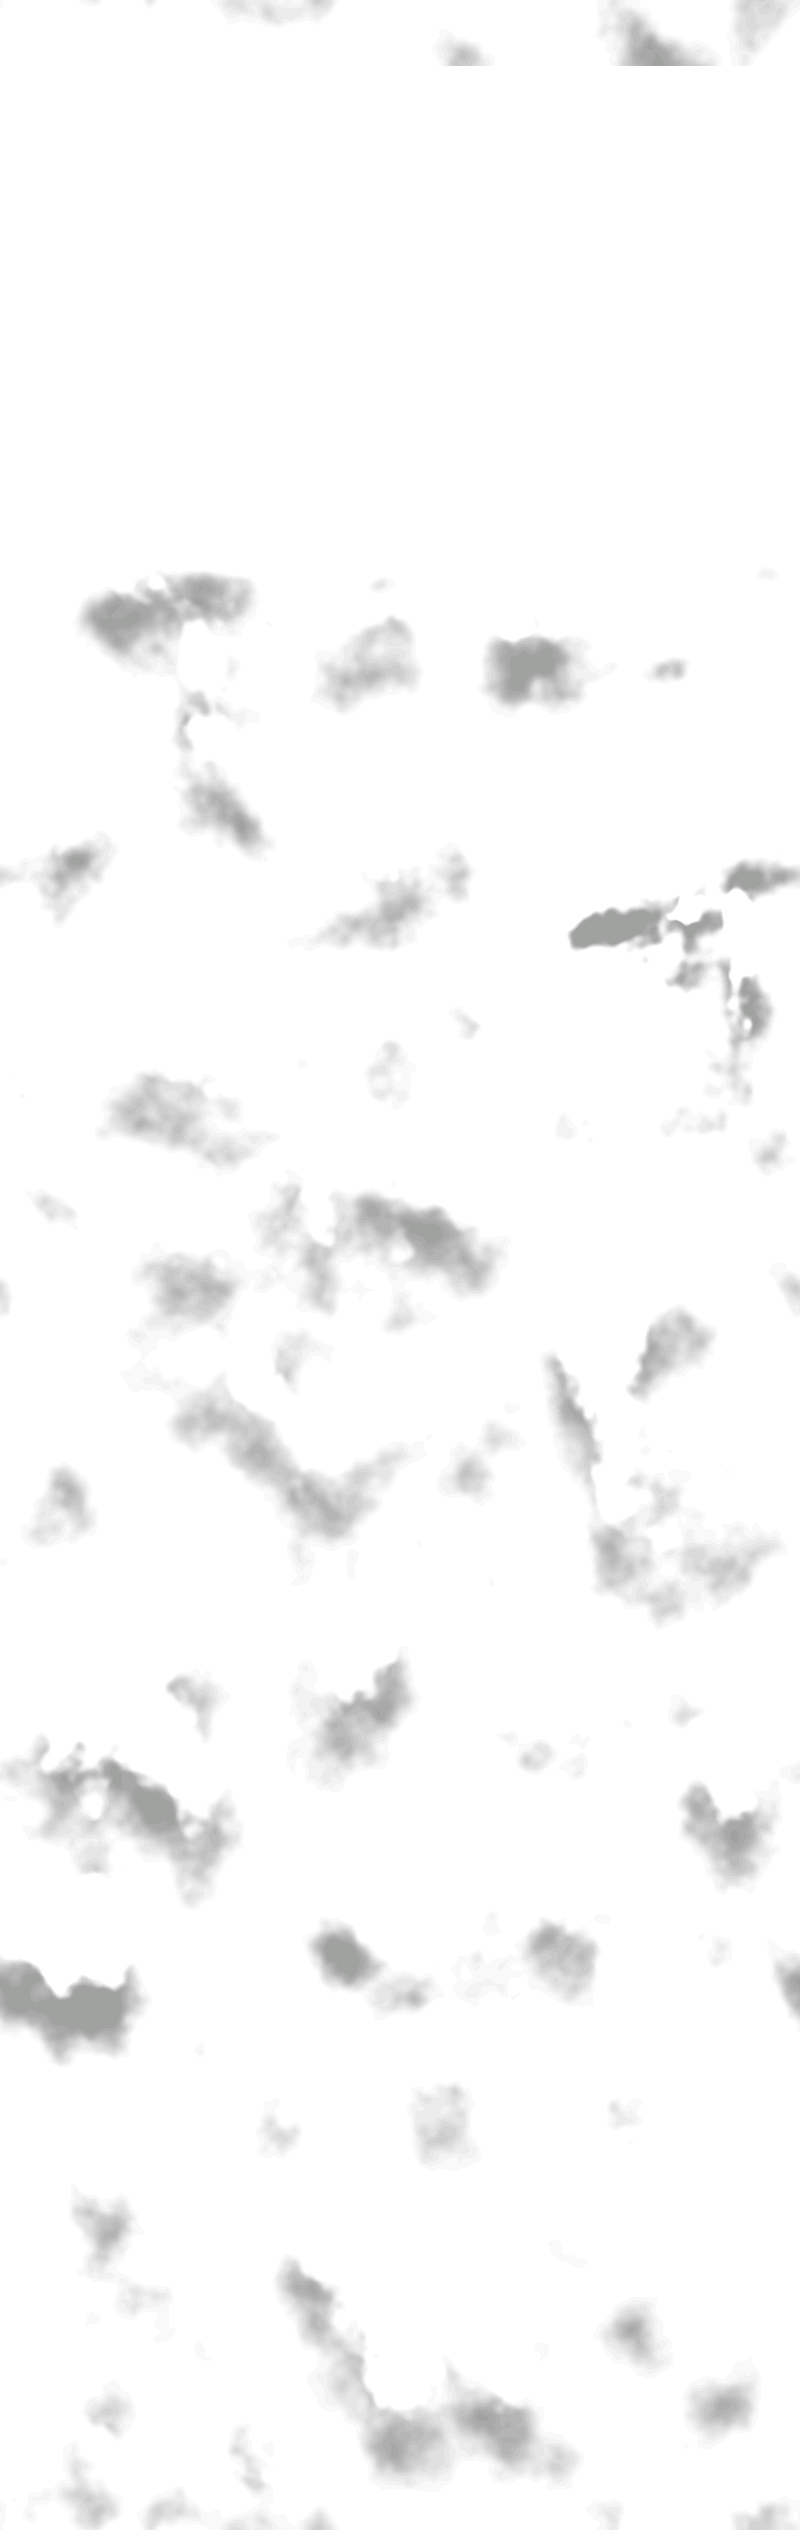
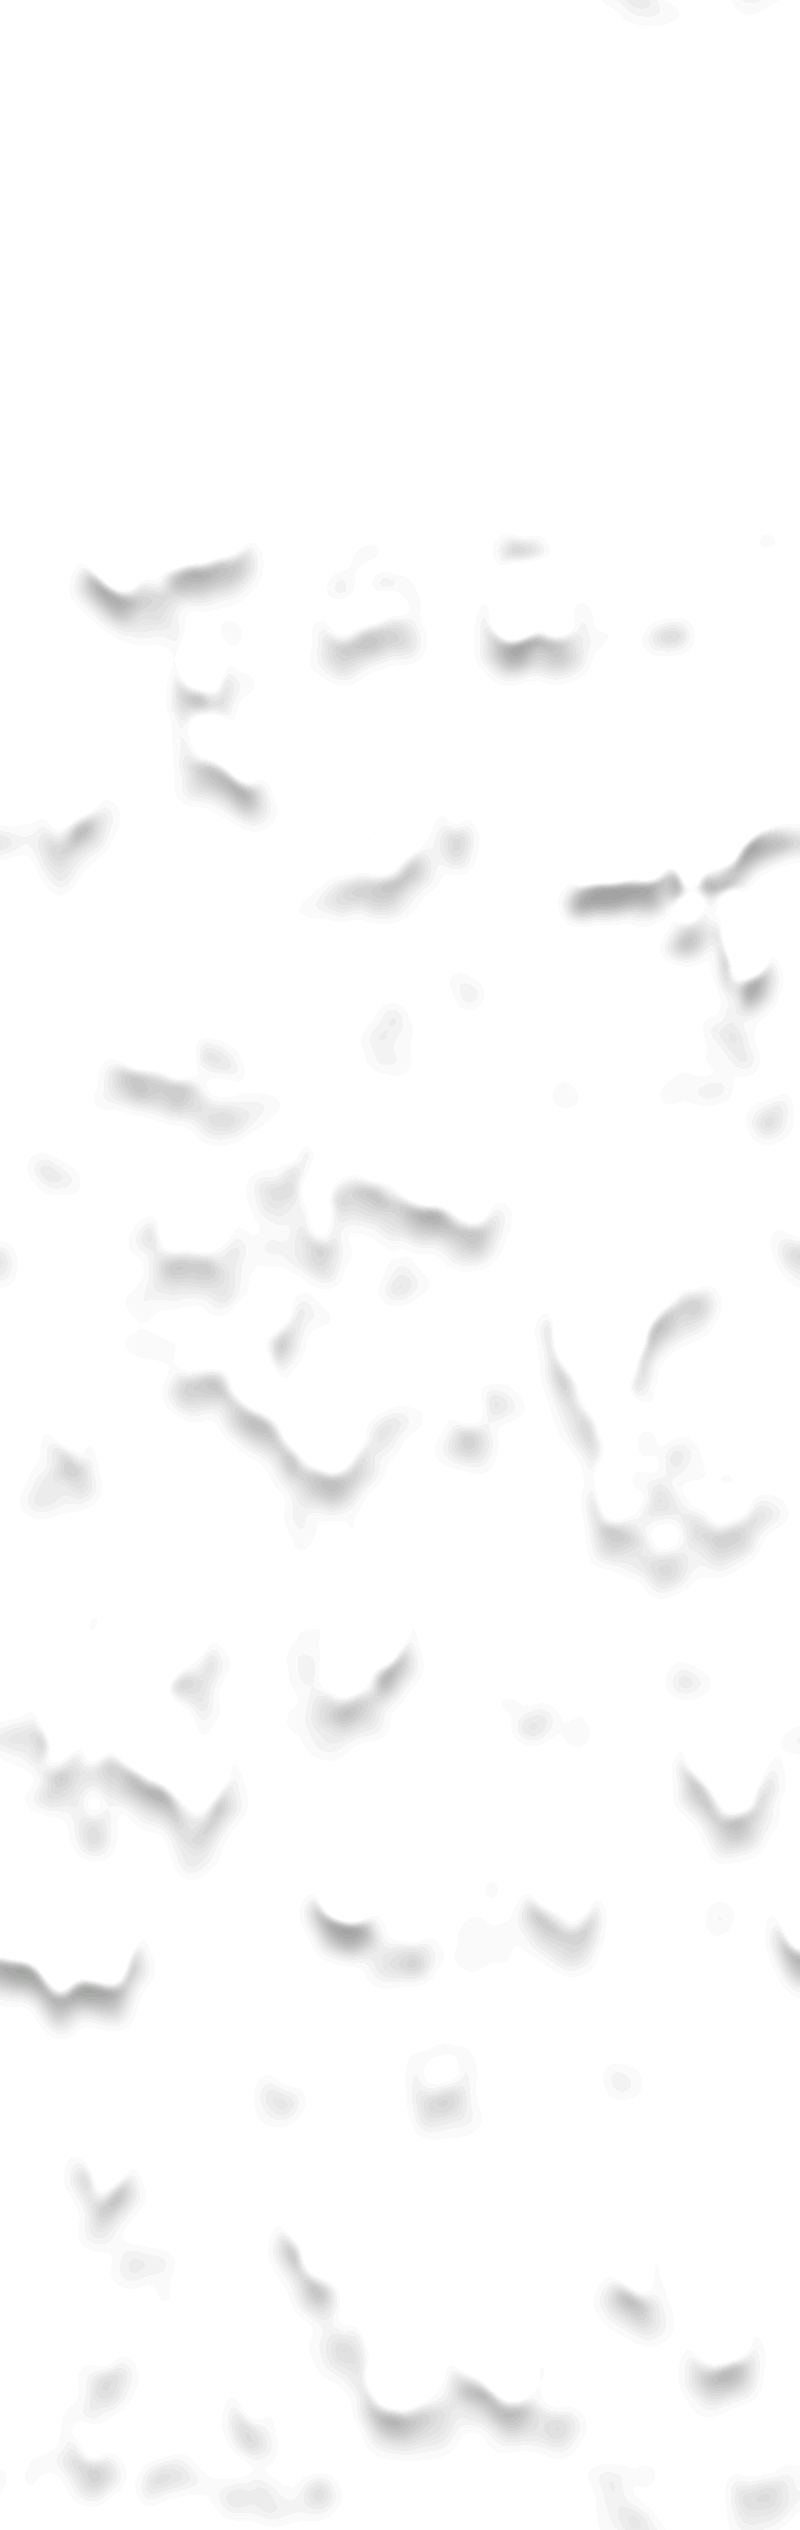
Clouds stay with the video as it blurs; shine and glints; closer, softer shadows
The clouds over the video now stay with it as it stays put, blurring with
it, and dissolve as the synopsis comes into focus (their block ends where
the film does). Where the logo and the texts are in the sun, a band of
sunlight sweeps across the words now and then, and tiny glints flash on
their letters (never in a shadow, nor on the logo behind the clouds). The
front wisps are softer (blurred, their shadows with them), and the
shadows fall 0.1 of a screen below them. Fixed: the wisp strip's end fade
had been disabled by a misplaced comment.

diff --git a/public/main.js b/public/main.js
@@ -19,6 +19,7 @@ const wash = film.querySelector(".film-wash");
 const filmStory = film.querySelector(".film-story");
 const story = filmStory.querySelector(".story");
 const introClouds = document.querySelector(".intro-clouds");
+const flow = document.querySelector(".flow");
 const introLogo = document.querySelector(".intro-logo");
 const cloudTile = document.querySelector(".clouds");
 // Clouds nearer than the bank, how much faster than it they move, and where they start:
@@ -33,6 +34,7 @@ const cloudLayers = [
 const watch = document.querySelector(".intro-logo .watch");
 const logoShade = document.querySelector(".logo-shade img");
 const shadedWords = [...document.querySelectorAll(".logline p, .quote blockquote")];
+const reduceMotion = window.matchMedia("(prefers-reduced-motion: reduce)").matches;
 const pressShades = [...document.querySelectorAll(".quote .shade")];
 
 // 0 before a, 1 after b, linear in between.
@@ -179,11 +181,24 @@ function update() {
     el.style.webkitMaskPosition = el.style.maskPosition =
       `${(shape.left - r.left).toFixed(1)}px ${(shape.top - r.top).toFixed(1)}px`;
   }
+  // ...and a band of sunlight sweeping across the words now and then (from left to
+  // right in 5 s, every 11 s), under their shadows.
+  const sweep = (performance.now() % 11000) / 5000;
+  const sheenW = 0.5 * window.innerWidth;
+  const sheenX = -sheenW + sweep * (window.innerWidth + 2 * sheenW);
+  const sheenOn = sweep < 1 && !reduceMotion;
+  if (!reduceMotion && cloudText.style.visibility === "visible") following = true; // (to sweep while the words show)
   for (const el of shadedWords) {
-    if (!shades) { el.style.backgroundSize = "0 0, 100% 100%"; continue; }
     const r = el.getBoundingClientRect();
-    el.style.backgroundSize = `${tileW.toFixed(1)}px ${tileH.toFixed(1)}px, 100% 100%`;
-    el.style.backgroundPosition = `${(shape.left - r.left).toFixed(1)}px ${(shape.top - r.top).toFixed(1)}px, 0 0`;
+    const sheen = sheenOn ? `${sheenW.toFixed(1)}px 100%` : "0 0";
+    const sheenAt = `${(sheenX - r.left).toFixed(1)}px 0`;
+    if (!shades) {
+      el.style.backgroundSize = `0 0, ${sheen}, 100% 100%`;
+      el.style.backgroundPosition = `0 0, ${sheenAt}, 0 0`;
+      continue;
+    }
+    el.style.backgroundSize = `${tileW.toFixed(1)}px ${tileH.toFixed(1)}px, ${sheen}, 100% 100%`;
+    el.style.backgroundPosition = `${(shape.left - r.left).toFixed(1)}px ${(shape.top - r.top).toFixed(1)}px, ${sheenAt}, 0 0`;
   }
 
   // The video plays (looping) while it's on screen and pauses when it isn't.
@@ -235,6 +250,10 @@ function update() {
     filmStory.style.transform = shown < 1 ? `scale(${0.88 + 0.12 * shown})` : ""; // and zooms in as it sharpens
   }
   filmStory.classList.toggle("shown", shown > 0.5);
+
+  // The clouds over the video blur with it, and dissolve as the synopsis comes into focus.
+  introClouds.style.filter = blur > 0 ? `blur(${(16 * blur).toFixed(1)}px)` : "";
+  introClouds.style.opacity = (1 - shown).toFixed(3);
 
   // Safari's bands around its address bar (iPhone) take the page's colour; it follows
   // what's at the top of the screen: the sky, the clouds (their thick part, until they
@@ -377,6 +396,84 @@ setTimeout(reveal, 20000); // never keep people waiting forever on a slow connec
 video.addEventListener("loadeddata", requestUpdate); // start it if it's already on screen
 
 window.addEventListener("scroll", requestUpdate, { passive: true });
+
+// Glints: every second or so, a tiny star of light flashes on a letter of the logo or
+// of the text on screen, where it's in the sun: not in a wisp's shadow, not behind the
+// clouds (the logo only while the bank hasn't reached it).
+const glints = [0, 1, 2].map(() => {
+  const g = document.createElement("span");
+  g.className = "glint";
+  g.setAttribute("aria-hidden", "true");
+  g.addEventListener("animationend", () => g.classList.remove("on"));
+  document.body.appendChild(g);
+  return g;
+});
+let logoPoints = null; // spots on the logo's letters (as shares of its box)
+let shadeData = null; // the wisps' shadows, to keep glints out of them
+function readImage(img, w) {
+  const c = document.createElement("canvas");
+  c.width = w;
+  c.height = Math.round(w * img.naturalHeight / img.naturalWidth);
+  const g = c.getContext("2d");
+  g.drawImage(img, 0, 0, c.width, c.height);
+  return { w: c.width, h: c.height, a: g.getImageData(0, 0, c.width, c.height).data };
+}
+function inShadow(x, y) {
+  const [veil] = cloudLayers[1];
+  if (veil.style.visibility !== "visible" || !shadeData) return false;
+  const shape = veil.firstElementChild.getBoundingClientRect();
+  const tileW = 2.4 * window.innerHeight, tileH = 7.6 * window.innerHeight;
+  const u = Math.floor((((x - shape.left) % tileW + tileW) % tileW) / tileW * shadeData.w);
+  const v = Math.floor((y - shape.top) / tileH * shadeData.h);
+  return v >= 0 && v < shadeData.h && shadeData.a[(v * shadeData.w + u) * 4 + 3] > 20;
+}
+function glintSpot() {
+  const spots = [];
+  const vh = window.innerHeight;
+  // the logo, while it's clear of the bank
+  const lr = logo.getBoundingClientRect();
+  if (logoPoints && !logo.style.maskImage && lr.bottom > 0 && lr.top < vh) {
+    const p = logoPoints[Math.floor(Math.random() * logoPoints.length)];
+    spots.push([lr.left + p[0] * lr.width, lr.top + p[1] * lr.height]);
+  }
+  // a letter of the text showing in the middle
+  if (cloudText.style.visibility === "visible") {
+    const showing = quotes.find((q) => +q.style.opacity > 0.9);
+    const words = showing && showing.querySelector("p, blockquote");
+    if (words && words.firstChild) {
+      const text = words.firstChild;
+      const i = Math.floor(Math.random() * text.length);
+      if (text.data[i] && text.data[i].trim()) {
+        const range = document.createRange();
+        range.setStart(text, i);
+        range.setEnd(text, i + 1);
+        const r = range.getBoundingClientRect();
+        if (r.width) spots.push([r.left + r.width * (0.3 + 0.4 * Math.random()), r.top + r.height * (0.3 + 0.3 * Math.random())]);
+      }
+    }
+  }
+  return spots[Math.floor(Math.random() * spots.length)];
+}
+function glintNow() {
+  setTimeout(glintNow, 700 + Math.random() * 1300);
+  if (reduceMotion || !root.classList.contains("loaded") || document.hidden) return;
+  if (!logoPoints && logo.complete && logo.naturalWidth) {
+    const d = readImage(logo, 240);
+    logoPoints = [];
+    for (let y = 0; y < d.h; y++) for (let x = 0; x < d.w; x++) {
+      if (d.a[(y * d.w + x) * 4 + 3] > 220) logoPoints.push([x / d.w, y / d.h]);
+    }
+  }
+  if (!shadeData && shade.complete && shade.naturalWidth) shadeData = readImage(shade, 400);
+  const spot = glintSpot();
+  if (!spot || inShadow(spot[0], spot[1])) return;
+  const g = glints.find((x) => !x.classList.contains("on"));
+  if (!g) return;
+  g.style.left = `${spot[0].toFixed(1)}px`;
+  g.style.top = `${spot[1].toFixed(1)}px`;
+  g.classList.add("on");
+}
+setTimeout(glintNow, 1500);
 // Phones: the laurels above the logo drift right to left for ever, one copy following
 // the other. A finger can drag them either way; let go, and they glide on with the
 // throw, easing back into the steady drift.
@@ -434,6 +531,13 @@ let storyStart = 0; // phones: how far down it sits as it starts to show
 // video filling the screen, × the screen height.
 const STORY_FROM = 0.19;
 function fitStory() {
+  fitFilm();
+  // The clouds stay over the video to the end (they're let go where the film ends, as
+  // the page does), as it stays put.
+  const flowBox = flow.getBoundingClientRect();
+  flow.style.height = `${(film.getBoundingClientRect().bottom - flowBox.top).toFixed(1)}px`;
+}
+function fitFilm() {
   story.style.transform = "";
   if (phone.matches) {
     // the poster's middle at 68% of the screen as it starts to show; it zooms in around

diff --git a/public/style.css b/public/style.css
@@ -155,17 +155,17 @@ html, body { background: var(--page, #939ca2); transition: background-color 0.4s
   margin: calc(var(--logo-w) * -0.0527) 0;
 }
 
-/* The block the clouds are held in. It ends 32vh below the video's top edge (its content,
-   the video section, carries on past it), so the clouds are let go, and scroll up and
-   away with the page, just as the blur starts (the moment the video fills
-   the screen). Clouds top at 50vh + their height, video top 32vh above their bottom:
-   height = cloud height + 50vh. */
+/* The block the clouds are held in: main.js makes it end where the film does, so the
+   clouds stay over the top of the video, as it stays put, to the end of the page.
+   (Before that's measured: clouds top at 50vh + their height, video top 32vh above their
+   bottom: height = cloud height + 50vh.) */
 .flow { height: calc(var(--cloud-h) + 50vh); }
 
 /* Starts at the middle of the screen (50vh, under the logo); the clouds' top fades into the sky
    photo. Sticky: once their soft bottom edge has risen to 32% down the screen (the same
    moment the video fills the screen) they are over the top third of the video, and
-   from there they scroll away as the blur starts. */
+   stay there with it (main.js blurs them with it, and dissolves them as the synopsis
+   comes into focus). */
 .intro-clouds {
   position: sticky;
   top: calc(32vh - var(--cloud-h));
@@ -271,9 +271,13 @@ html, body { background: var(--page, #939ca2); transition: background-color 0.4s
    painted over the letters.) */
 .logline p, .quote blockquote {
   color: transparent;
-  background-image: url(clouds-shade.webp), linear-gradient(var(--ink), var(--ink));
-  background-repeat: repeat-x, no-repeat;
-  background-size: 0 0, 100% 100%;
+  /* the shadows; a band of sunlight sweeping across now and then (placed by main.js,
+     under the shadows, so it's never in them); the text's colour */
+  background-image: url(clouds-shade.webp),
+    linear-gradient(100deg, transparent 0%, rgba(255, 253, 246, 0.95) 50%, transparent 100%),
+    linear-gradient(var(--ink), var(--ink));
+  background-repeat: repeat-x, no-repeat, no-repeat;
+  background-size: 0 0, 0 0, 100% 100%;
   -webkit-background-clip: text;
   background-clip: text;
   text-shadow: none;
@@ -424,4 +428,32 @@ html, body { background: var(--page, #939ca2); transition: background-color 0.4s
   .synopsis p { font-size: 1.1rem; line-height: 1.55; margin-bottom: 28px; }
   .synopsis .button { padding: 0.8em 1.1em; font-size: 0.72rem; letter-spacing: 0.14em; }
   .film-story .site-footer { position: static; margin-top: 56px; padding: 16px 0 24px; }
+}
+
+/* Glints: now and then a tiny star of light flashes on a letter of the logo or the texts
+   where they're in the sun (main.js places them; never in a shadow). */
+.glint {
+  position: fixed;
+  z-index: 5;
+  left: 0;
+  top: 0;
+  width: 28px;
+  height: 28px;
+  margin: -14px 0 0 -14px;
+  pointer-events: none;
+  opacity: 0;
+  mix-blend-mode: screen;
+  background:
+    radial-gradient(circle, #fff 0 1.4px, rgba(255, 249, 234, 0.85) 2.4px, rgba(255, 244, 222, 0) 8px),
+    linear-gradient(90deg, transparent, rgba(255, 252, 242, 0.95), transparent) center / 100% 1.6px no-repeat,
+    linear-gradient(0deg, transparent, rgba(255, 252, 242, 0.95), transparent) center / 1.6px 100% no-repeat;
+}
+.glint.on { animation: glint 0.9s ease-in-out; }
+@keyframes glint {
+  0% { opacity: 0; transform: scale(0.2) rotate(0deg); }
+  40% { opacity: 1; transform: scale(1) rotate(20deg); }
+  100% { opacity: 0; transform: scale(0.3) rotate(45deg); }
+}
+@media (prefers-reduced-motion: reduce) {
+  .glint { display: none; }
 }

diff --git a/tools/cloud_depth.py b/tools/cloud_depth.py
@@ -21,7 +21,7 @@ sideways without a seam.
 """
 import sys
 import numpy as np
-from PIL import Image
+from PIL import Image, ImageFilter
 
 src, out = sys.argv[1], sys.argv[2]
 rng = np.random.default_rng(int(sys.argv[3]) if len(sys.argv) > 3 else 5)
@@ -83,14 +83,16 @@ clear = 1 - smooth(1.45, 1.55, at)
 lift = 0.3 * clear - 0.05 * dense  # higher threshold: fewer wisps; lower: more
 # Some wisps soft, almost a gradient, others with a crisper edge.
 edge = 0.03 + 0.17 * noise(h, w, [(220, 1.0)])
-a = smooth(0.74 + lift - edge, 0.74 + lift + edge, n)  # (0.74: few of them) * smooth(0.0, 0.02, y) * (1 - smooth(0.97, 1.0, y))
+a = smooth(0.74 + lift - edge, 0.74 + lift + edge, n) * smooth(0.0, 0.02, y) * (1 - smooth(0.97, 1.0, y))  # (0.74: few of them)
+# softened: a little blurred (their shadows too, below, so they still match)
+a = np.asarray(Image.fromarray((a * 255).astype(np.uint8)).filter(ImageFilter.GaussianBlur(7))).astype(np.float32) / 255
 lit = np.clip(0.5 + 6.0 * (n - np.roll(n, 14, axis=0)), 0, 1)[..., None]
 rgb = np.array([178, 186, 192], np.float32) + np.array([70, 66, 60], np.float32) * lit  # whiter than the bank behind, so they show
 Image.fromarray(np.dstack([rgb, a[..., None] * 190]).clip(0, 255).astype(np.uint8)).save(f"{out}/clouds-veil.png")
 # Their shadows on the letters, as from a high sun: each wisp exactly, its shape and
-# its soft or crisp edge, cast 0.2 of a screen lower, gently dark, and none where a
+# its soft or crisp edge, cast 0.1 of a screen lower, gently dark, and none where a
 # wisp is in front: a cloud, sky, then the letters darkened in its shape.
-shade = np.roll(a, int(0.2 * PER), axis=0) * (1 - smooth(0.05, 0.4, a))
+shade = np.roll(a, int(0.1 * PER), axis=0) * (1 - smooth(0.05, 0.4, a))
 Image.fromarray(np.dstack([np.full((h, w, 3), [26, 28, 24], np.float32), shade[..., None] * 105]).astype(np.uint8)).save(f"{out}/clouds-shade.png")
 
 # The logo's mask: opaque where the bank is clear sky, transparent where it has cloud.

diff --git a/README.md b/README.md
@@ -4,7 +4,7 @@ Static website, served by Render from `public/` (no build step).
 
 - `public/favicon.png`, `apple-touch-icon.png` — the icon: mountain ridges in the evening haze
 - `public/laurels.webp` — festival laurels at the top of the homepage, nine in one strip, each sized to the same visual weight, built from the trimmed originals in `tools/laurels/` (one row beside the menu button; on phones the same strip in one row above the logo, drifting right to left for ever and draggable (main.js))
-- `public/index.html`, `style.css`, `main.js` — homepage: logo over the sky photo (`sky.webp`), the storm clouds (`clouds.webp`, a seamless sideways tile drifting steadily with the wind; the sky photo behind the logo moves up at a third of the scrolling; the logo and its button are masked with `clouds-mask.webp` so they go behind the bank (hidden even where it is only haze) instead of showing through; nearer layers move and drift faster the closer they are: puffs between the bank and the texts (`clouds-mid.webp`) and see-through wisps in front of them (`clouds-veil.webp`), all made by `tools/cloud_depth.py`; the wisps (already up in the sky over the logo when the page opens, sparse there) cast shadows of their own shape and edge (soft or crisp) 0.2 of a screen straight below themselves, as from a high sun (none behind a wisp; baked into `clouds-shade.webp`; the wisps are one long strip, few of them, fading away as the video comes up, with clear sky around the logo as the page opens and a group above the last quote, for its shadows), on the letters of the logo, the texts and the press logos only (a darkened copy of the logo masked with `clouds-shade.webp`; the texts' colour is a background clipped to the letters with those shapes over it), following their drift; the logline and quotes ride up into the centre and stay, the last (Variety) going behind the cumulus near the bank's bottom as it rises (masked with `clouds-below-mask.webp`); arriving over the top third of the video and scrolling on away as it blurs, made from the storm photo by `tools/clouds.py`: a top edge shaped by the cloud forms, softened toward the film's overcast sky lower down, the thick middle extended, the bottom faded) scroll up over it carrying the logline and two press quotes (Screen Daily, then Variety; logos `press-*.png`), each cross-fading into the next and fade onto the film clip (`bg2-light.mp4`, 1280 wide and under 1 MB, is what the loading screen waits for; the full-quality `bg2.mp4`, 12 s, 1920×1072, H.264, no audio, then loads behind it and fades in over it, in step; `bg2-poster.webp`, its first frame, shows until it plays), which plays and loops on its own while on screen (on phones it starts 2 s in the first time, then loops whole; `bg2-poster-mobile.webp` is that frame); scrolling on blurs it (not fully; no zoom); as it blurs, the poster (`poster.webp`), the synopsis and the About the film and trailer buttons come into focus in place, over the blurred video, still playing (on phones stacked: poster full width, heading, synopsis, buttons, footer, moved up by main.js over the pinned video as you scroll, from the moment it starts to show), and the page ends there. A loading screen (the light sky colour #939ca2, a small dark blue bar and percentage) holds the page until fonts, images and the clip are loaded; then the logo comes into focus
+- `public/index.html`, `style.css`, `main.js` — homepage: logo over the sky photo (`sky.webp`), the storm clouds (`clouds.webp`, a seamless sideways tile drifting steadily with the wind; the sky photo behind the logo moves up at a third of the scrolling; the logo and its button are masked with `clouds-mask.webp` so they go behind the bank (hidden even where it is only haze) instead of showing through; nearer layers move and drift faster the closer they are: puffs between the bank and the texts (`clouds-mid.webp`) and see-through wisps in front of them (`clouds-veil.webp`), all made by `tools/cloud_depth.py`; the wisps (already up in the sky over the logo when the page opens, sparse there) cast shadows of their own shape and edge (soft or crisp) 0.1 of a screen straight below themselves, as from a high sun (none behind a wisp; baked into `clouds-shade.webp`; the wisps are one long strip, few of them, fading away as the video comes up, with clear sky around the logo as the page opens and a group above the last quote, for its shadows), on the letters of the logo, the texts and the press logos only (a darkened copy of the logo masked with `clouds-shade.webp`; the texts' colour is a background clipped to the letters with those shapes over it), following their drift; the words get a band of sunlight sweeping across them now and then, and tiny glints flash on letters of the logo and the texts where they're in the sun; the logline and quotes ride up into the centre and stay, the last (Variety) going behind the cumulus near the bank's bottom as it rises (masked with `clouds-below-mask.webp`); arriving over the top third of the video and staying there with it, blurring with it and dissolving as the synopsis comes into focus, made from the storm photo by `tools/clouds.py`: a top edge shaped by the cloud forms, softened toward the film's overcast sky lower down, the thick middle extended, the bottom faded) scroll up over it carrying the logline and two press quotes (Screen Daily, then Variety; logos `press-*.png`), each cross-fading into the next and fade onto the film clip (`bg2-light.mp4`, 1280 wide and under 1 MB, is what the loading screen waits for; the full-quality `bg2.mp4`, 12 s, 1920×1072, H.264, no audio, then loads behind it and fades in over it, in step; `bg2-poster.webp`, its first frame, shows until it plays), which plays and loops on its own while on screen (on phones it starts 2 s in the first time, then loops whole; `bg2-poster-mobile.webp` is that frame); scrolling on blurs it (not fully; no zoom); as it blurs, the poster (`poster.webp`), the synopsis and the About the film and trailer buttons come into focus in place, over the blurred video, still playing (on phones stacked: poster full width, heading, synopsis, buttons, footer, moved up by main.js over the pinned video as you scroll, from the moment it starts to show), and the page ends there. A loading screen (the light sky colour #939ca2, a small dark blue bar and percentage) holds the page until fonts, images and the clip are loaded; then the logo comes into focus
 - `public/gate.js` — password screen on every page (remembered in the browser once entered). Keeps casual visitors out only: the files themselves stay reachable. To change the password, put its hash (see `hash()` in the file) in `HASH`
 - `public/trailer.js` — "Watch the trailer" buttons (under the logo and beside About the film) open the YouTube trailer in a player over the darkened page
 - `public/site.css`, `menu.js`, `menu.html` — shared styles and the menu (Home, About the film, Trailer (opens the player), Screenings & Awards, Press, Soundscape, Contact (Community hidden for now, its page kept); a pill at the top right: three lines, then MENU; it opens the menu as a page of its own, `menu.html`, in its own darker olive, so iPhone Safari's bands match it; the X goes back to the page you came from, where you were; pages cross-fade where browsers can): listed at the top of `menu.js`, the page you came from in italics, and the footer on every page (credits, designer, Instagram, Facebook, IMDb, TMDB; on the homepage at the bottom of the synopsis screen)
